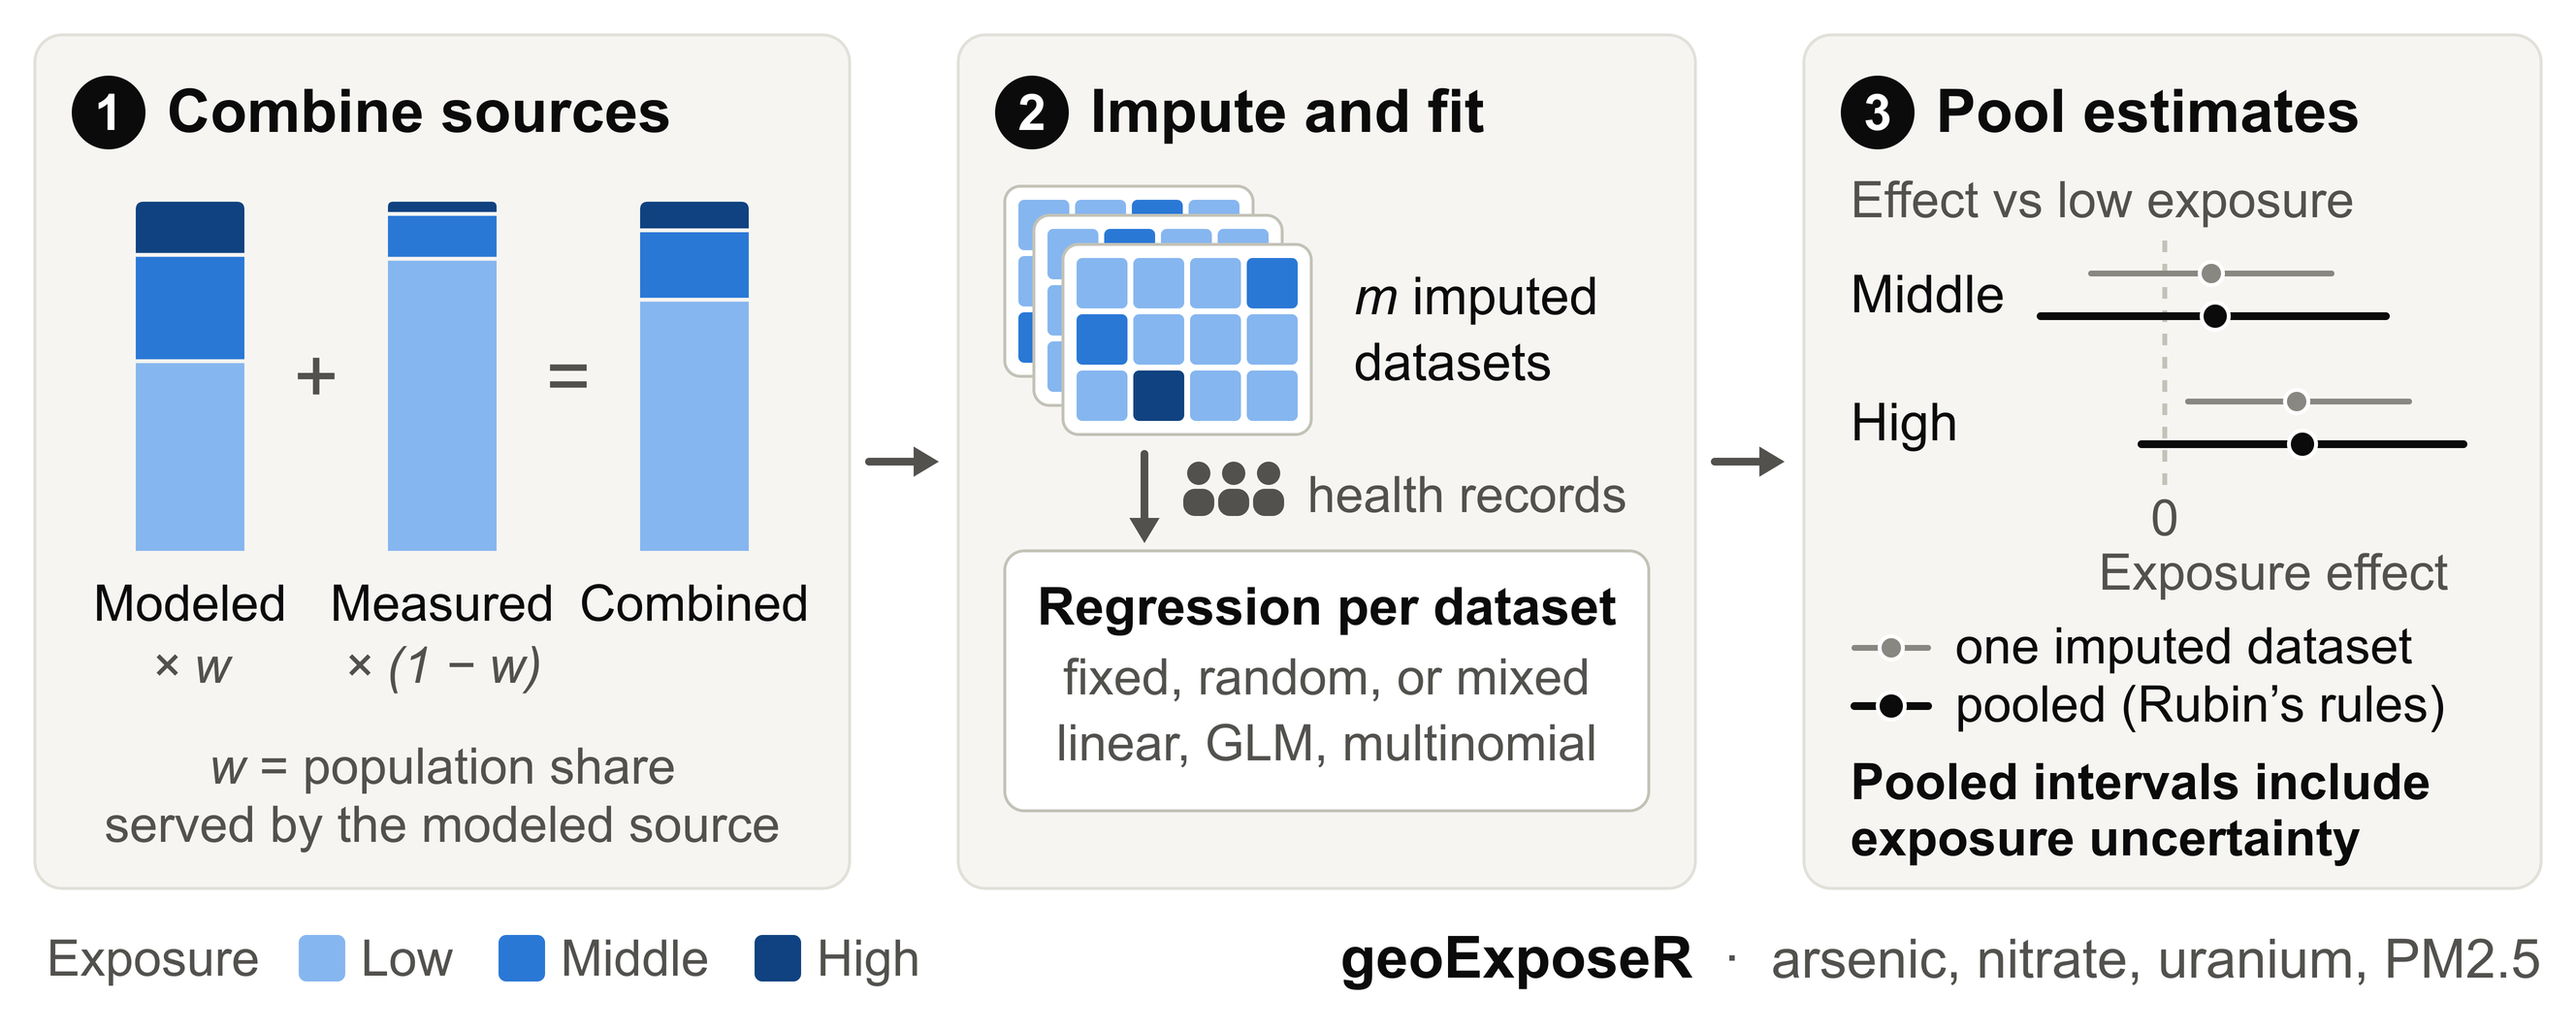
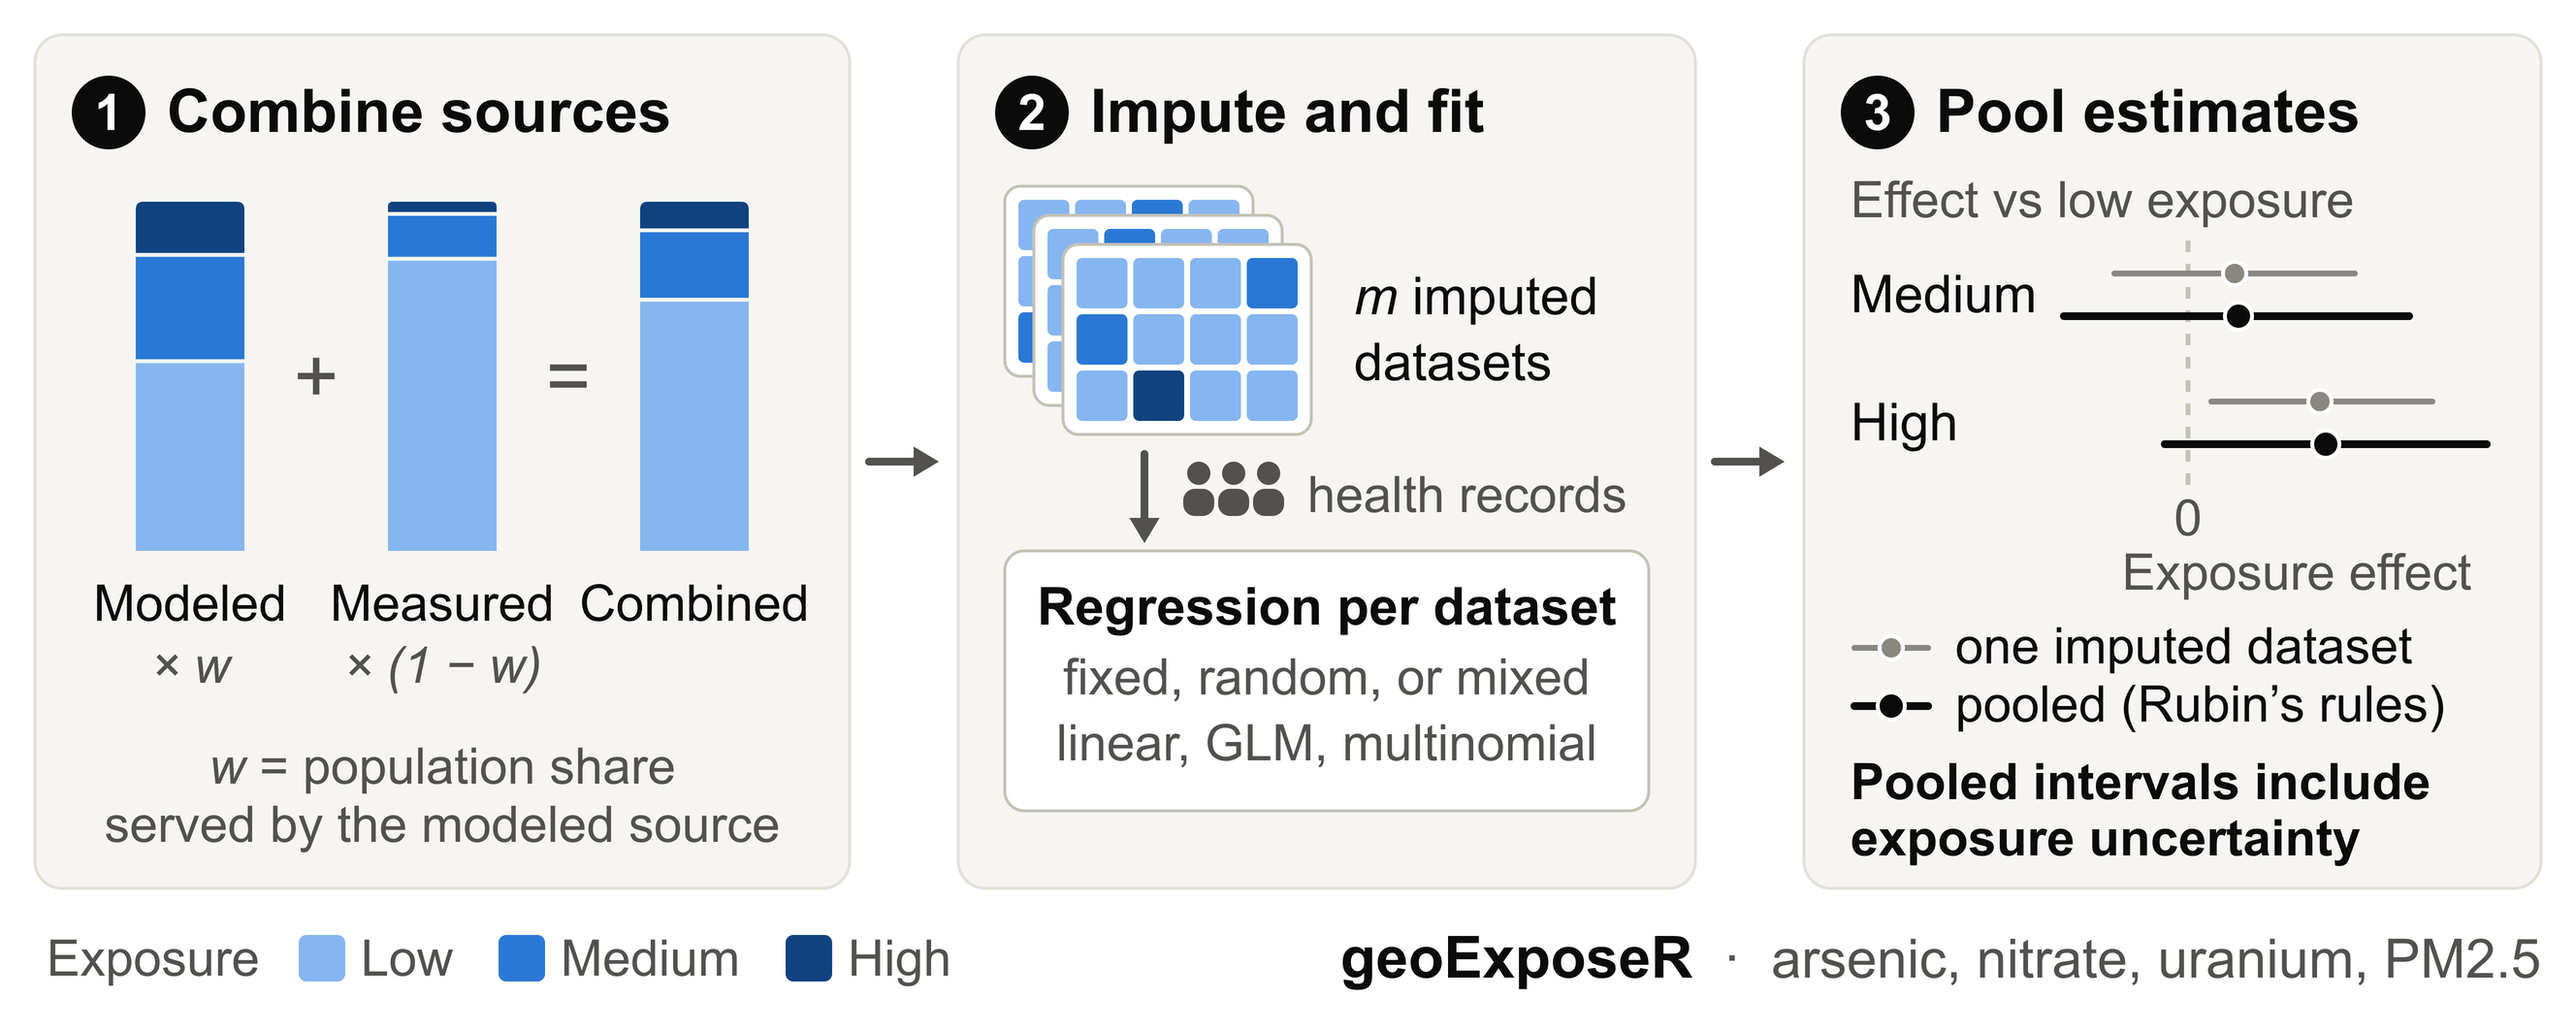
Update graphical abstract

diff --git a/scripts/generate_graphical_abstract.py b/scripts/generate_graphical_abstract.py
@@ -42,7 +42,7 @@ SCALE = 4           # the TIFF is SCALE times the minimum size
 
 INK, INK2, MUTED = "#0b0b0b", "#52514e", "#898781"
 HAIRLINE, PANEL, PANEL_EDGE = "#c3c2b7", "#f6f5f2", "#e1e0d9"
-# Exposure categories low, middle and high: ordinal steps of one blue ramp
+# Exposure categories low, medium and high: ordinal steps of one blue ramp
 RAMP = ("#86b6ef", "#2a78d6", "#104281")
 FONT = "Arial, Helvetica, sans-serif"
 FONT_FILES = {
@@ -256,13 +256,13 @@ def panel_pool(x, pw):
     left = x + PAD
     inner = pw - 2 * PAD
     text(left, 112, "Effect vs low exposure", fill=INK2, max_width=inner)
-    zero = x + 186
+    zero = x + 198
     svg.append(
         f'<line x1="{zero}" y1="124" x2="{zero}" y2="250" stroke="{HAIRLINE}" '
         f'stroke-width="2.5" stroke-dasharray="6 6"/>'
     )
     text(zero, 276, "0", anchor="middle", fill=INK2)
-    rows = (("Middle", 152, (-38, 86, 24), (-64, 114, 26)),
+    rows = (("Medium", 152, (-38, 86, 24), (-64, 114, 26)),
             ("High", 218, (12, 126, 68), (-12, 154, 71)))
     for label, cy, one, pooled in rows:
         text(left, cy + 9, label, size=27)
@@ -282,7 +282,7 @@ def footer():
     x = PX[0] + 6
     text(x, y, "Exposure", fill=INK2)
     x += text_width("Exposure", 26) + 22
-    for color, label in zip(RAMP, ("Low", "Middle", "High")):
+    for color, label in zip(RAMP, ("Low", "Medium", "High")):
         svg.append(f'<rect x="{n(x)}" y="{y - 21}" width="24" height="24" rx="4" fill="{color}"/>')
         text(x + 32, y, label, fill=INK2)
         x += 32 + text_width(label, 26) + 24
